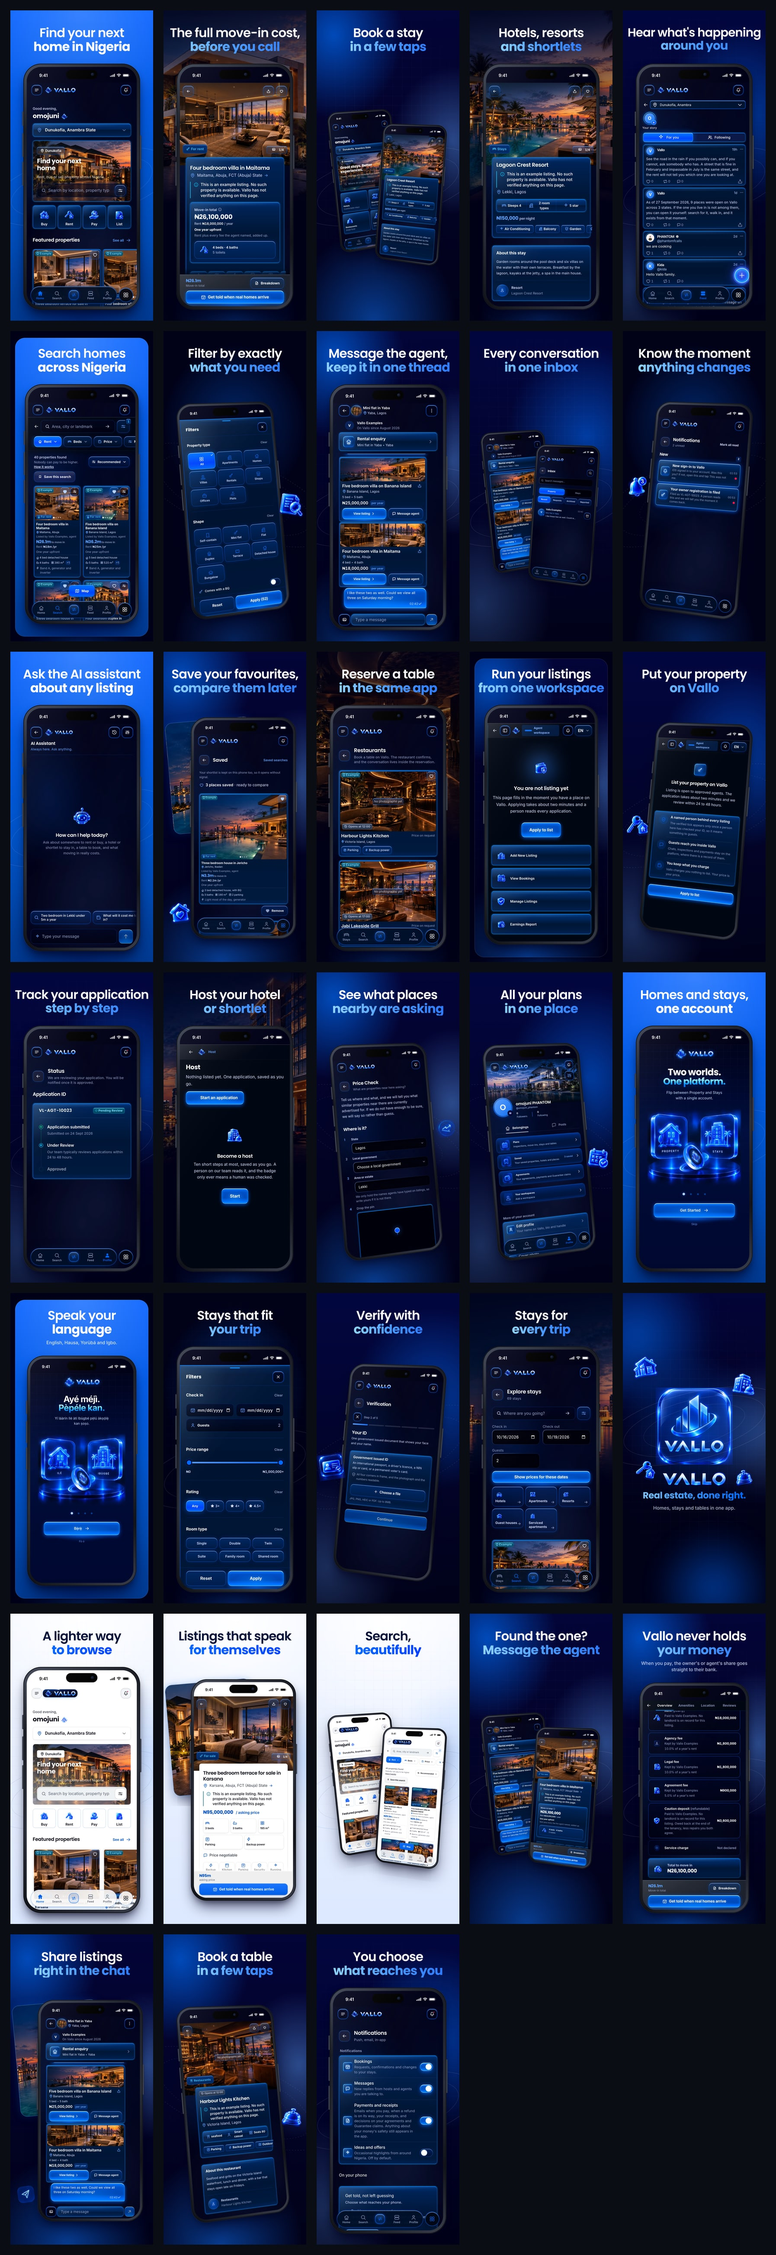
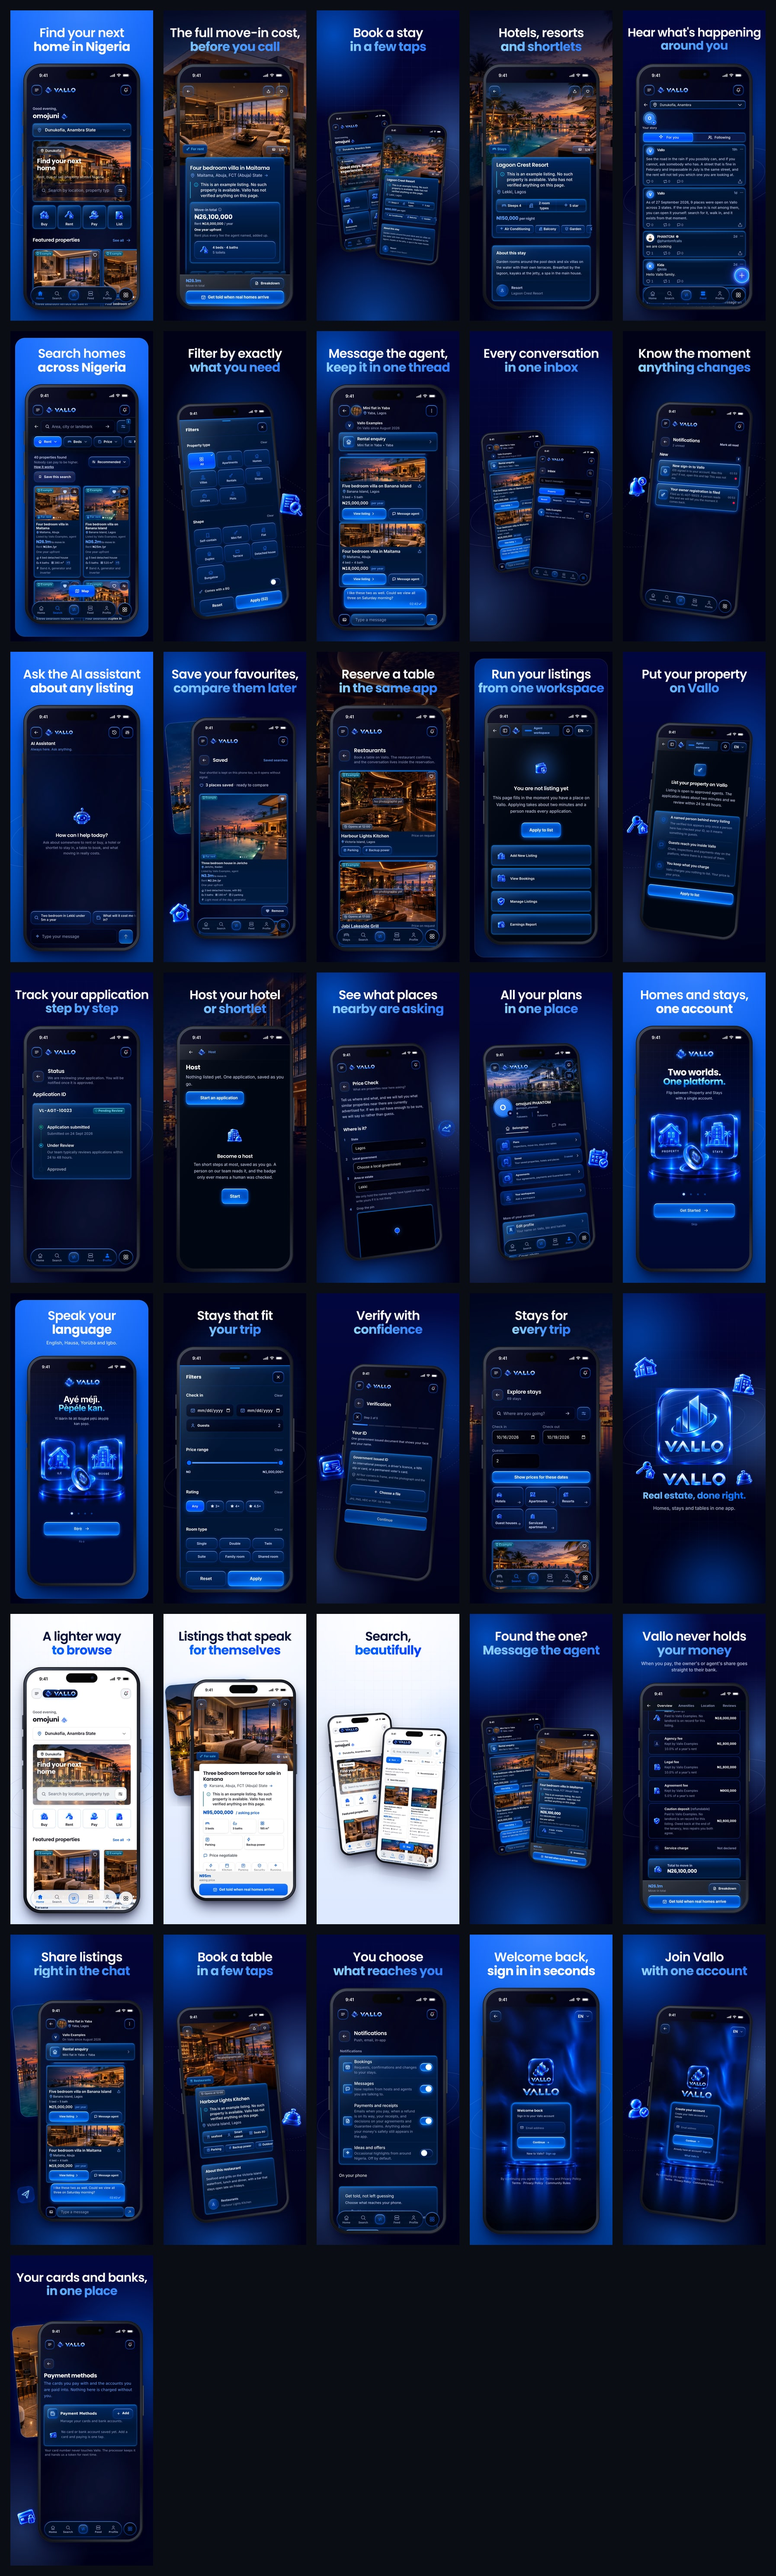
Add the sign-in, sign-up and payment methods screens to the store screenshot pool
Shots 34 to 36, both stores. There is no wallet or crypto screen to show: /wallet redirects to /agreements, and crypto appears only inside a live checkout, off until configured; the handbook says so.

diff --git a/docs/store/APP_STORE_SCREENSHOTS_HANDBOOK.md b/docs/store/APP_STORE_SCREENSHOTS_HANDBOOK.md
@@ -2,7 +2,7 @@
 
 Produced on 29 September 2026. This records what is in `docs/store/screenshots/`, how every image was made, the sizes each store takes, and which images to submit. Everything in it can be regenerated with three commands (section 7).
 
-**The short version.** There is a pool of 33 images for each store, 30 in the dark theme and 3 in the light, every one showing the live product inside a whole phone. The App Store images use a phone with a camera island at 1320 x 2868. The Google Play images use an Android phone at 1080 x 1920, and there is a 1024 x 500 feature graphic. Section 2 names the ten to submit to Apple and the eight to submit to Google.
+**The short version.** There is a pool of 36 images for each store, 33 in the dark theme and 3 in the light, every one showing the live product inside a whole phone. The App Store images use a phone with a camera island at 1320 x 2868. The Google Play images use an Android phone at 1080 x 1920, and there is a 1024 x 500 feature graphic. Section 2 names the ten to submit to Apple and the eight to submit to Google.
 
 ---
 
@@ -10,12 +10,12 @@ Produced on 29 September 2026. This records what is in `docs/store/screenshots/`
 
 ```
 docs/store/screenshots/
-├── app-store/iphone-6.9/dark/     30 images, 1320 x 2868, PNG, no alpha
+├── app-store/iphone-6.9/dark/     33 images, 1320 x 2868, PNG, no alpha
 ├── app-store/iphone-6.9/light/     3 images, 1320 x 2868, PNG, no alpha
-├── google-play/phone/dark/        30 images, 1080 x 1920, PNG, no alpha
+├── google-play/phone/dark/        33 images, 1080 x 1920, PNG, no alpha
 ├── google-play/phone/light/        3 images, 1080 x 1920, PNG, no alpha
 ├── google-play/feature-graphic/    feature-graphic.png, 1024 x 500
-├── source/                        the 30 live screen captures (WebP) and capture-report.json
+├── source/                        the 33 live screen captures (WebP) and capture-report.json
 └── overview.jpg                   every App Store image on one sheet, for choosing
 ```
 
@@ -96,6 +96,9 @@ Every screen is the live product at <https://www.vallospaces.com>, captured on 2
 | 31 | Share listings right in the chat | dark | photocard (villa-pool-skyline-01) | `/messages/<id>` |
 | 32 | Book a table in a few taps | dark | tilt | `/restaurant/<id>` |
 | 33 | You choose what reaches you | dark | hero | `/settings/notifications` |
+| 34 | Welcome back, sign in in seconds | dark | hero | `/sign-in` |
+| 35 | Join Vallo with one account | dark | tilt | `/sign-up` |
+| 36 | Your cards and banks, in one place | dark | photocard (living-room-dusk) | `/settings/payments` |
 
 The layouts, all of which show whole phones: **hero** (one phone, straight, as large as the image allows), **tilt** (one phone turned a little in 3D, with a glass object beside it), **photo** (a property photograph behind, the phone in front), **photocard** (a photograph on a tilted card behind the phone), **card** (an inset rounded panel holding the words and the phone), **duo** (two phones leaning toward each other) and **brand**.
 
@@ -168,13 +171,14 @@ One to ten screenshots per display size and language, in .png, .jpg or .jpeg. Ap
 - **Price Check (`18`) shows the question, not an answer.** With only example listings it declines to give a figure, as it should. The screen is the form, filled in for Lekki.
 - **The agent and host screens (`14` to `17`) are what a member sees before approval**: the pitch, the empty workspace, the application status. There is no agent or host QA account, and none was created.
 - **No image shows a person's hand holding the phone.** The founder asked for some. No licensed photograph of one is available: the build environment cannot reach Unsplash, Pexels or Pixabay, and a drawn hand would look worse than none. A licensed photograph with the phone's four screen corners marked can be added as a new layout.
+- **There are no wallet or crypto screens.** `/wallet` redirects to `/agreements`: the wallet was retired when Vallo stopped holding money. Crypto (Yellow Card) appears only inside a live checkout and is switched off until configured. Shot `36` shows the payment methods screen instead.
 - **No money moved and there are no "balance transactions".** Vallo has no wallet or balance by design (`docs/MONEY_ARCHITECTURE.md`), and a payment is a real Paystack charge that needs an approved agreement.
 
 ### What the capture wrote to production
 
 Only to the two QA accounts, and only through the product's own screens:
 
-- **Sign-ins.** Ten sign-ins to the QA member account and one to the QA admin account. Each writes a "New sign-in to Vallo" notification and security email to that account (one of them is visible in shot `10`). They can be ended from `/settings/devices`.
+- **Sign-ins.** Eleven sign-ins to the QA member account and one to the QA admin account. Each writes a "New sign-in to Vallo" notification and security email to that account (one of them is visible in shot `10`). They can be ended from `/settings/devices`.
 - **First run.** The interests question was skipped once on the QA member's profile.
 - **Favourites.** Three example listings saved to the QA member's favourites (shots `12` and `19` show them).
 - **The enquiry thread.** At the founder's request, the QA member shared two saved listings into its existing rental enquiry with the example lister, using the share picker, and sent one message: "I like these two as well. Could we view all three on Saturday morning?" A conversation in Vallo is always between a guest and a listing's agent, and every live listing's agent is the example account, so the thread has one side.
